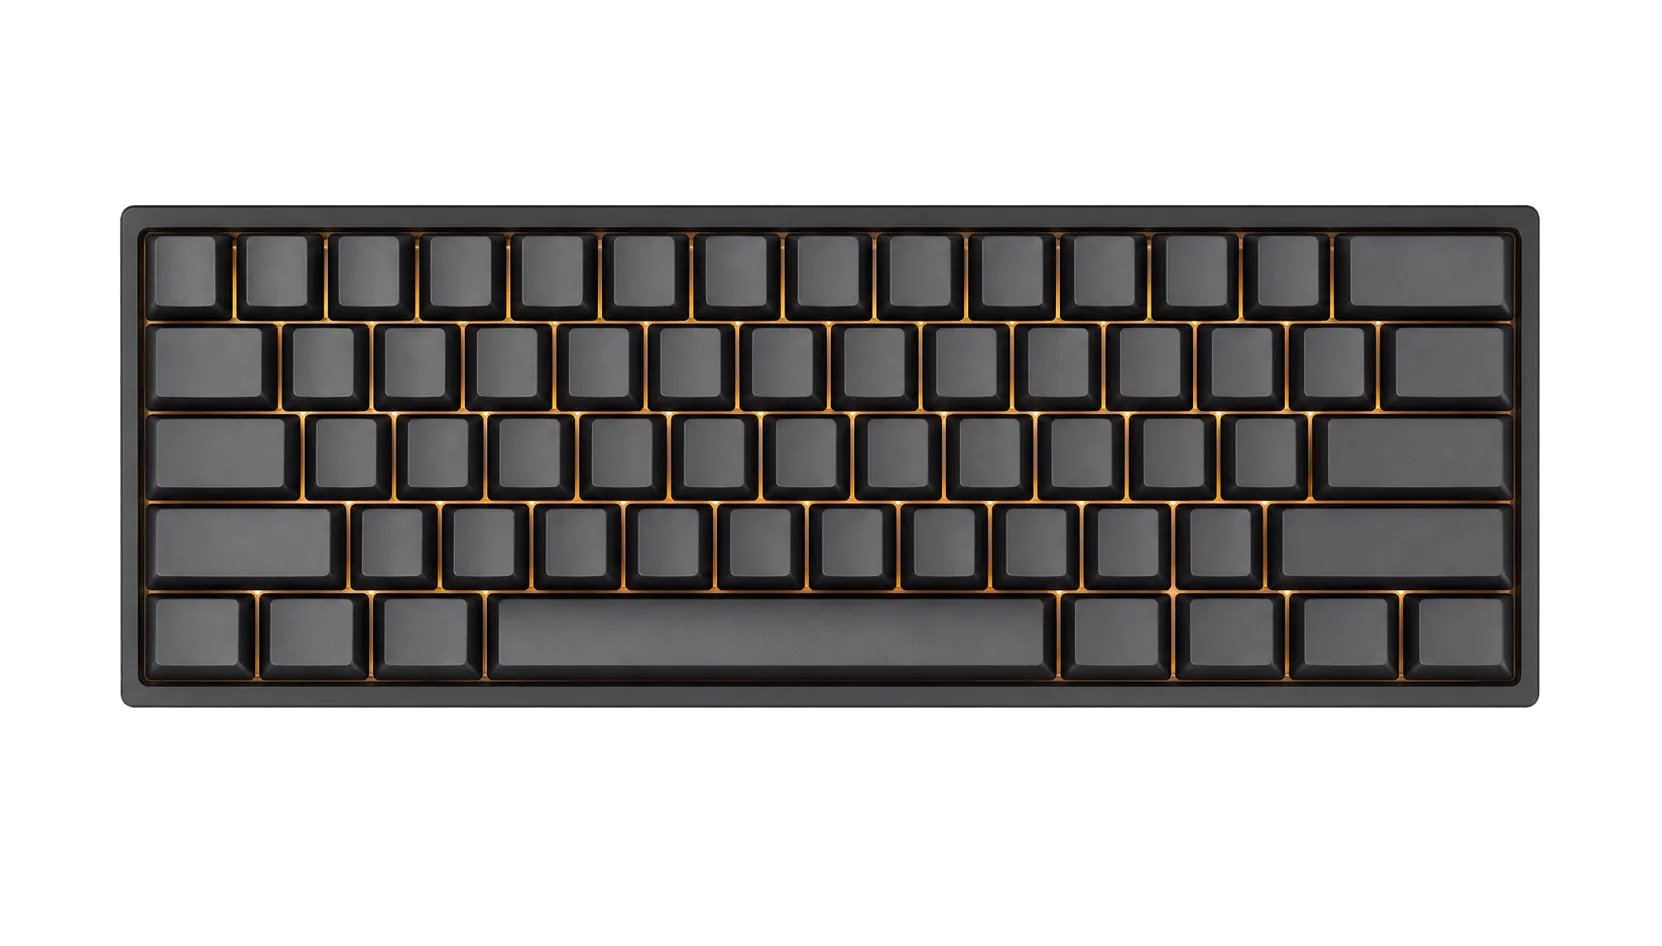
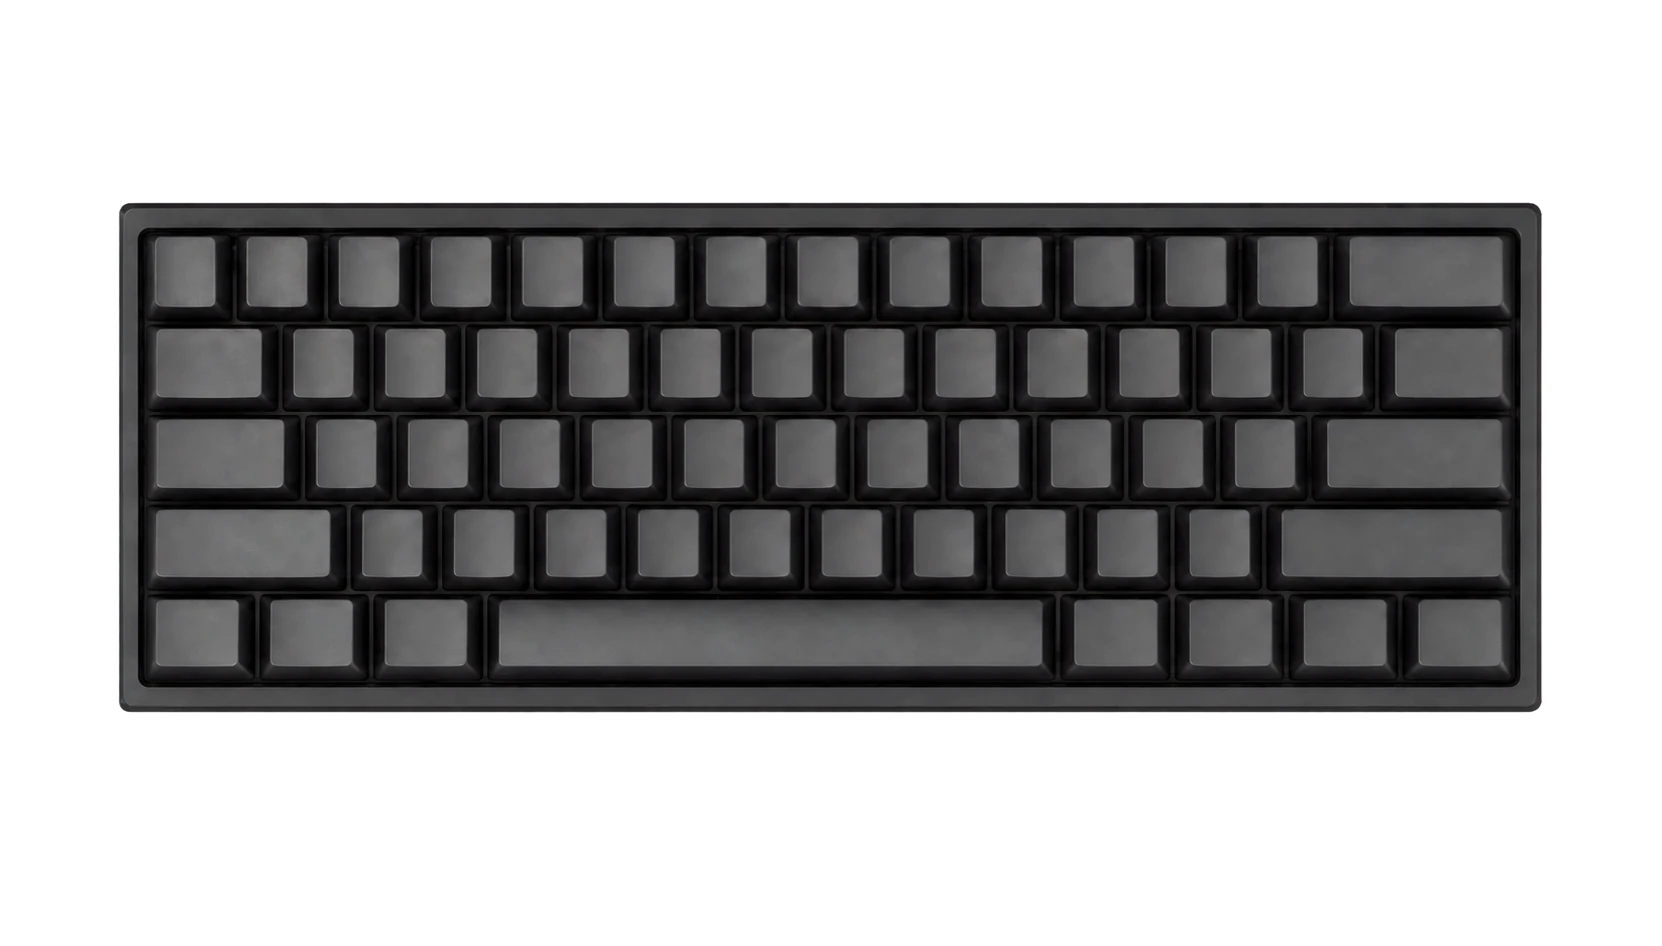
Enhance device management with improved home focus handling and connection status display

Changed region(s): [[0.0614, 0.2146, 0.9206, 0.7664]]

diff --git a/src/renderer/components/home.tsx b/src/renderer/components/home.tsx
@@ -1,4 +1,4 @@
-import { useCallback, useEffect, useRef, useState } from 'react';
+import { useCallback, useEffect, useLayoutEffect, useRef, useState } from 'react';
 import { ChevronLeft, ChevronRight } from 'lucide-react';
 import type { Device } from '@/gen/devices';
 import { DeviceArt } from '@/components/art/device-art';
@@ -12,6 +12,7 @@ function DeviceCard({ device, onOpen }: { device: Device; onOpen: () => void }) 
     <button
       type="button"
       data-device-card
+      data-device-id={device.id}
       onClick={onOpen}
       className={cn(
         'group flex w-64 shrink-0 snap-center flex-col items-center gap-5 rounded-2xl px-6 py-7',
@@ -75,10 +76,14 @@ function CarouselControl({
 
 export function Home({
   devices,
+  initialScrollLeft,
+  restoreFocusId,
   onOpen,
 }: {
   devices: Device[];
-  onOpen: (deviceId: string) => void;
+  initialScrollLeft: number;
+  restoreFocusId: string | null;
+  onOpen: (deviceId: string, scrollLeft: number) => void;
 }) {
   const carouselRef = useRef<HTMLDivElement>(null);
   const [canScroll, setCanScroll] = useState({ previous: false, next: false });
@@ -96,6 +101,21 @@ export function Home({
       current.previous === next.previous && current.next === next.next ? current : next,
     );
   }, []);
+
+  useLayoutEffect(() => {
+    const carousel = carouselRef.current;
+    if (!carousel) return;
+
+    carousel.scrollLeft = initialScrollLeft;
+    updateScrollState();
+
+    if (restoreFocusId) {
+      const card = Array.from(
+        carousel.querySelectorAll<HTMLElement>('[data-device-card]'),
+      ).find((element) => element.dataset.deviceId === restoreFocusId);
+      card?.focus({ preventScroll: true });
+    }
+  }, [initialScrollLeft, restoreFocusId, updateScrollState]);
 
   useEffect(() => {
     const carousel = carouselRef.current;
@@ -153,7 +173,11 @@ export function Home({
             className="flex w-max min-w-full justify-center gap-4 px-12 pb-12"
           >
             {devices.map((device) => (
-              <DeviceCard key={device.id} device={device} onOpen={() => onOpen(device.id)} />
+              <DeviceCard
+                key={device.id}
+                device={device}
+                onOpen={() => onOpen(device.id, carouselRef.current?.scrollLeft ?? 0)}
+              />
             ))}
           </div>
         </div>

diff --git a/src/renderer/App.tsx b/src/renderer/App.tsx
@@ -9,7 +9,12 @@ const isMac = navigator.userAgent.includes('Mac');
 export default function App() {
   const { devices, failed } = useDevices();
   const [openId, setOpenId] = useState<string | null>(null);
+  const [homeState, setHomeState] = useState<{ scrollLeft: number; focusId: string | null }>({
+    scrollLeft: 0,
+    focusId: null,
+  });
   const mainRef = useRef<HTMLElement>(null);
+  const restoreHomeFocus = useRef(false);
 
   const openDevice = devices?.find((device) => device.id === openId) ?? null;
   const screenKey = openDevice?.id ?? 'devices';
@@ -19,6 +24,10 @@ export default function App() {
   }
 
   useEffect(() => {
+    if (screenKey === 'devices' && restoreHomeFocus.current) {
+      restoreHomeFocus.current = false;
+      return;
+    }
     mainRef.current?.focus();
   }, [screenKey]);
 
@@ -37,10 +46,21 @@ export default function App() {
               <DeviceView
                 key={openDevice.id}
                 device={openDevice}
-                onBack={() => setOpenId(null)}
+                onBack={() => {
+                  restoreHomeFocus.current = true;
+                  setOpenId(null);
+                }}
               />
             ) : (
-              <Home devices={devices} onOpen={setOpenId} />
+              <Home
+                devices={devices}
+                initialScrollLeft={homeState.scrollLeft}
+                restoreFocusId={homeState.focusId}
+                onOpen={(deviceId, scrollLeft) => {
+                  setHomeState({ scrollLeft, focusId: deviceId });
+                  setOpenId(deviceId);
+                }}
+              />
             ))}
         </main>
       </div>

diff --git a/src/renderer/components/device-status.tsx b/src/renderer/components/device-status.tsx
@@ -5,6 +5,7 @@ import {
   BatteryMedium,
   Bluetooth,
   Cable,
+  CircleHelp,
   Usb,
   type LucideIcon,
 } from 'lucide-react';
@@ -14,10 +15,12 @@ import { cn } from '@/lib/utils';
 const LOW_BATTERY = 20;
 const FULL_BATTERY = 90;
 
-const RECEIVER = { label: 'USB receiver', Icon: Usb };
-const CONNECTIONS: Partial<Record<LinkType, { label: string; Icon: LucideIcon }>> = {
+const UNKNOWN_CONNECTION = { label: 'Unknown connection', Icon: CircleHelp };
+const CONNECTIONS: Record<LinkType, { label: string; Icon: LucideIcon }> = {
+  [LinkType.RECEIVER]: { label: 'USB receiver', Icon: Usb },
   [LinkType.BLUETOOTH]: { label: 'Bluetooth', Icon: Bluetooth },
   [LinkType.WIRED]: { label: 'Wired', Icon: Cable },
+  [LinkType.UNRECOGNIZED]: UNKNOWN_CONNECTION,
 };
 
 function batteryOf(
@@ -27,14 +30,14 @@ function batteryOf(
   if (charging) {
     return {
       Icon: BatteryCharging,
-      tone: 'text-[hsl(145_38%_32%)] dark:text-[hsl(145_30%_58%)]',
+      tone: 'text-status-charging',
       label: `Battery ${level}%, charging`,
     };
   }
   if (level <= LOW_BATTERY) {
     return {
       Icon: BatteryLow,
-      tone: 'text-[hsl(4_42%_42%)] dark:text-[hsl(4_38%_62%)]',
+      tone: 'text-status-low',
       label: `Battery low, ${level}%`,
     };
   }
@@ -53,7 +56,7 @@ function batteryOf(
 }
 
 export function DeviceConnectionIcon({ device }: { device: Device }) {
-  const connection = CONNECTIONS[device.link] ?? RECEIVER;
+  const connection = CONNECTIONS[device.link] ?? UNKNOWN_CONNECTION;
   const label = device.connected ? connection.label : `${connection.label}, disconnected`;
 
   return (

diff --git a/src/renderer/components/art/device-art.tsx b/src/renderer/components/art/device-art.tsx
@@ -29,12 +29,15 @@ const ART: Record<string, Art> = {
   'compact-keyboard': {
     detail: '/device-art/compact-keyboard.webp',
     home: '/device-art/compact-keyboard-home.webp',
-    alt: 'Graphite compact backlit keyboard',
+    alt: 'Graphite compact keyboard',
     aspect: '821 / 479',
   },
 };
 
-function artFor(device: Device): Art {
+function artFor(device: Device): Art | null {
+  if (!device.mouse && !device.keyboard) {
+    return null;
+  }
   if (ART[device.id]) {
     return ART[device.id];
   }
@@ -60,6 +63,8 @@ export function DeviceArt({
   className?: string;
 }) {
   const art = artFor(device);
+  if (!art) return null;
+
   const offline = !device.connected && 'grayscale opacity-45';
 
   if (variant === 'home') {

diff --git a/src/renderer/index.css b/src/renderer/index.css
@@ -27,6 +27,9 @@
         --destructive: 0 72% 46%;
         --destructive-foreground: 40 20% 98%;
 
+        --status-charging: 145 38% 32%;
+        --status-low: 4 42% 42%;
+
         --border: 35 8% 87%;
         --input: 35 8% 85%;
         --ring: 32 88% 36%;
@@ -58,6 +61,9 @@
 
         --destructive: 0 72% 51%;
         --destructive-foreground: 40 8% 96%;
+
+        --status-charging: 145 30% 58%;
+        --status-low: 4 38% 62%;
 
         --border: 30 4% 18%;
         --input: 30 4% 20%;

diff --git a/tailwind.config.js b/tailwind.config.js
@@ -23,6 +23,10 @@ export default {
           DEFAULT: "hsl(var(--destructive) / <alpha-value>)",
           foreground: "hsl(var(--destructive-foreground) / <alpha-value>)",
         },
+        status: {
+          charging: "hsl(var(--status-charging) / <alpha-value>)",
+          low: "hsl(var(--status-low) / <alpha-value>)",
+        },
         muted: {
           DEFAULT: "hsl(var(--muted) / <alpha-value>)",
           foreground: "hsl(var(--muted-foreground) / <alpha-value>)",
